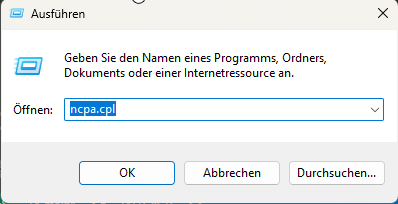
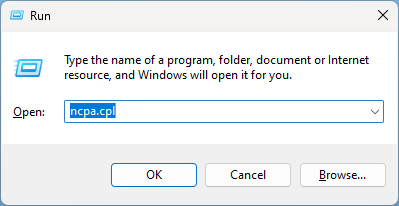
Changed Screenshots to English

diff --git a/README.md b/README.md
@@ -90,20 +90,20 @@ That you can Access all Tools with theire DNS Name, it is Necessary that You cha
 
 >This Method applies only for that device you change it. It is fine for Testing purposes. For a final Installation we reccomend using the [Network wide](#network-wide) setting.
 
-1. Press the **Windows Key + R**
+1. Press the **Windows Key + R**, to open the Run dialog.
 2. Enter **ncpa.cpl** an presse Enter
    
    <img src="Documentation/Images/Readme004.png" alt="Local DNS 1" width="400"/>
 
-3. Right Click on your Used Network connection and select **Preferences** 
+3. Right Click on your Used Network connection and select **Properties** 
    
    <img src="Documentation/Images/Readme005.png" alt="Local DNS 2" width="300"/>
    
-4. Double Click on **Internet Protokoll Version 4** to open your IP settings
+4. Double Click on **Internetprotokoll. Version 4** to open your IP settings
    
    <img src="Documentation/Images/Readme006.png" alt="Local DNS 3" width="300"/>
    
-5. Cahnge to **Folgende DNS-Serveradressen verwenden** and enter the IP of your Raspberry Pi
+5. Cahnge to **Use the following DNS server address** and enter the IP of your Raspberry Pi
    
    <img src="Documentation/Images/Readme007.png" alt="Local DNS 4" width="300"/>
 
